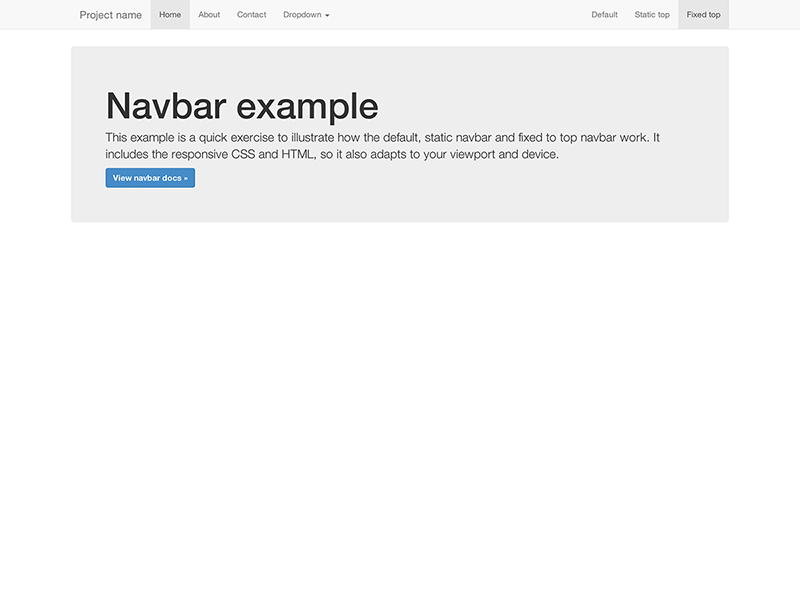
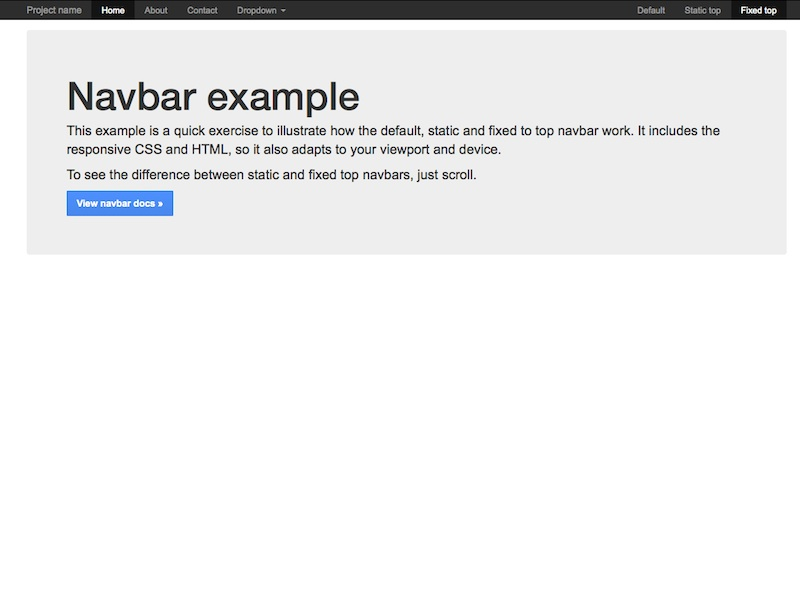
update the navbar fixed top example to support todc-bootstrap
#117

Changed region(s): [[0.0625, 0.12, 0.9062, 0.36], [0.0, 0.0, 1.0, 0.06]]

diff --git a/examples/navbar-fixed-top/index.html b/examples/navbar-fixed-top/index.html
@@ -8,10 +8,13 @@
     <meta name="author" content="">
     <link rel="shortcut icon" href="../../docs-assets/ico/favicon.png">
 
-    <title>Fixed Top Navbar Example for Bootstrap</title>
+    <title>Fixed Top Navbar Example for TODC Bootstrap</title>
 
     <!-- Bootstrap core CSS -->
     <link href="../../dist/css/bootstrap.css" rel="stylesheet">
+
+    <!-- TODC Bootstrap core CSS -->
+    <link href="../../dist/css/todc-bootstrap.css" rel="stylesheet">
 
     <!-- Custom styles for this template -->
     <link href="navbar-fixed-top.css" rel="stylesheet">

diff --git a/examples/navbar-fixed-top/navbar-fixed-top.css b/examples/navbar-fixed-top/navbar-fixed-top.css
@@ -1,4 +1,4 @@
 body {
   min-height: 2000px;
-  padding-top: 70px;
+  padding-top: 50px;
 }
